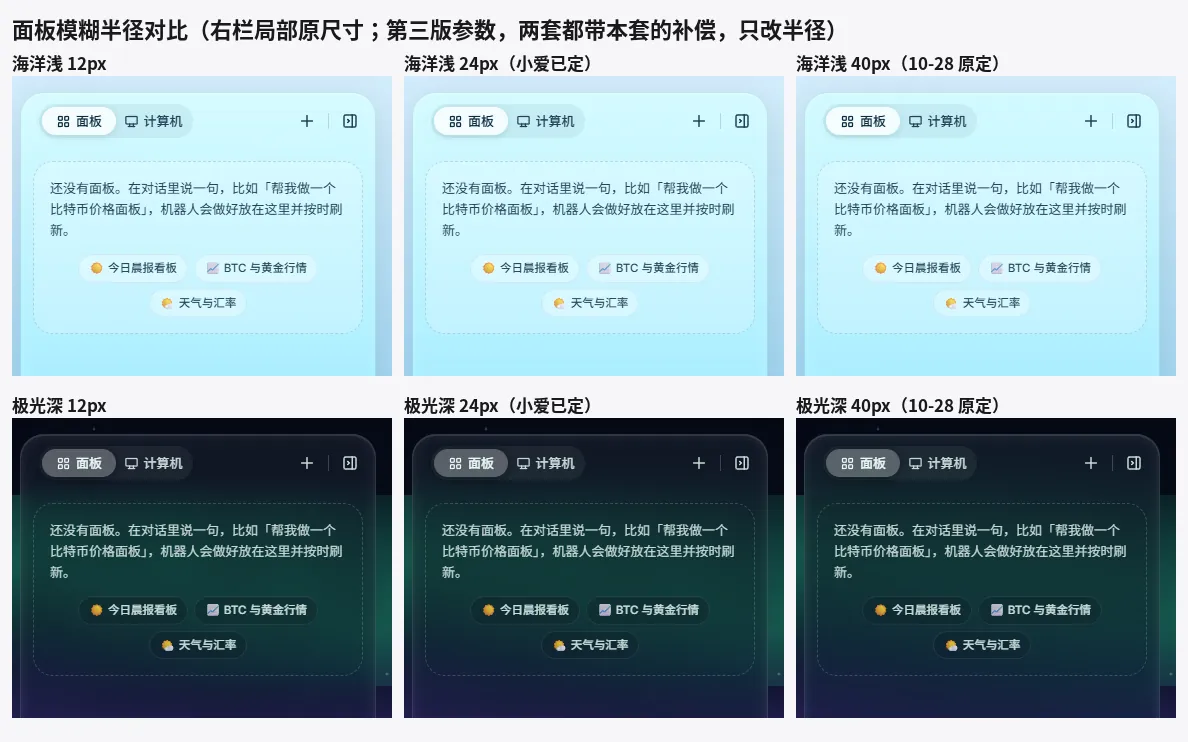
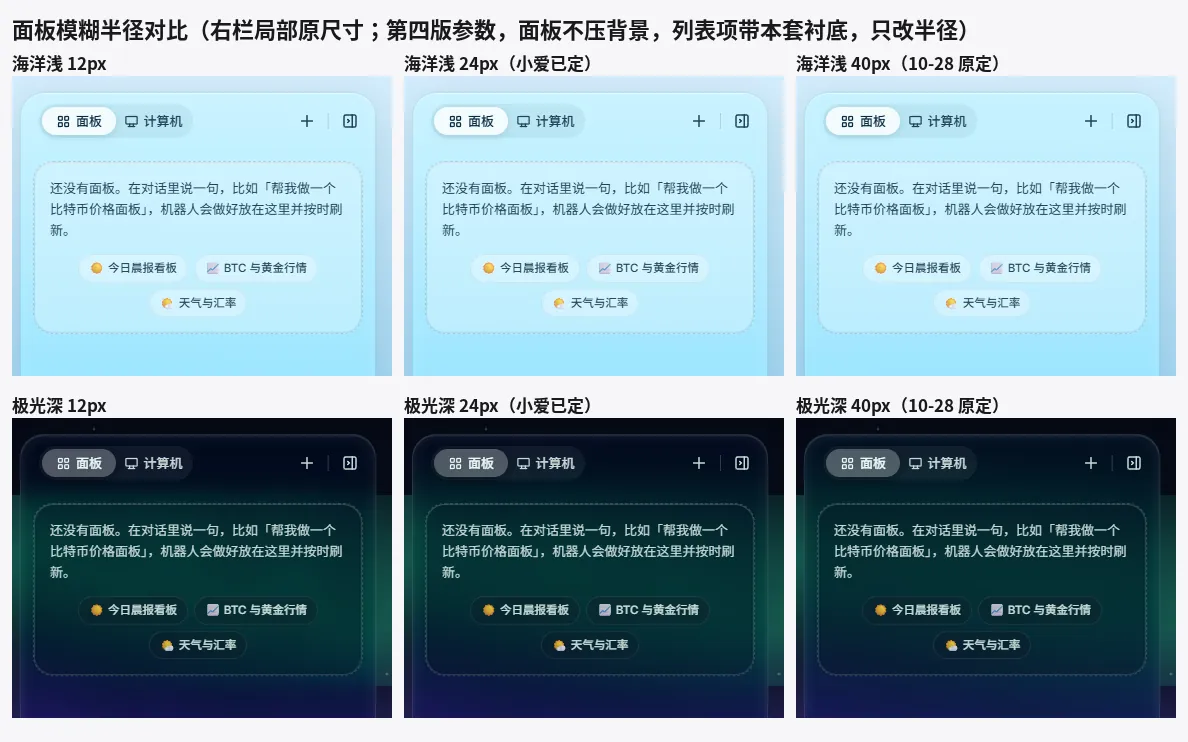
docs: theme proposal v4 - underlay-first AA compensation, panels stay at baseline, reshot images

Changed region(s): [[0.436, 0.0, 0.8098, 0.062], [0.3426, 0.031, 0.3737, 0.062]]

diff --git a/docs/design-system.md b/docs/design-system.md
@@ -1,12 +1,16 @@
 # 主题系统重做：提案
 
-**状态：小爱已批准，透光按方案 ③ 修订**（2026-10-29 第三版）。这份文档只写方案，代码一行没改。代码等 #376 合并后再做。
+**状态：小爱已批准**（2026-10-29 第四版）。这份文档只写方案，代码一行没改。代码等 #376 合并后再做。
 
-**第三版改了什么**（小爱选了方案 ③）：
-- 透光放第一位：基线就是「只降底色」那一列，面板底浅 **0.25**、深 **0.32**，**不压背景**。全局的压背景去掉了。
-- 只有过不了 AA 的预设单独补偿，每套取能过的最轻一档（§3.1）：sky 浅、sakura 深用轻压背景；aurora 深再把底色提到 0.36；sky 深、mist 浅、ocean 浅、dusk 浅、dusk 深在轻压背景之外，还要给文字所在的列表项加一层很淡的衬底。其余 4 套不补偿。
-- 12 张壁纸的主文字和次文字都 ≥ 4.5:1：主文字最差 6.32:1（aurora 深），次文字最差 4.52:1（sky 浅）。
-- 侧栏透光对比图换成「只降底色」和第三版并排（§11），2、3、4 号图按第三版参数重拍。
+**第四版改了什么**（小爱复审第三版后）：
+- 补偿的顺序反过来：**先用局部衬底**，压背景和提高底色放到最后才用。原因是第三版的 5 号图里，aurora 深的绿色极光几乎被压没了，sky 深也明显变灰。
+- 所有 12 套的面板都和基线一样：底浅 **0.25** / 深 **0.32**，`blur(24px) saturate(180%)`，**不压背景、不提底色**。第三版里 sky 浅、sky 深、sakura 深、aurora 深和另外 4 套用的 ② 轻压背景、aurora 深的底色 0.36 都去掉了。
+- 过不了 AA 的 8 套只给文字所在的列表项 / 卡片加衬底：主题实色的半透明底 + 1px 描边 + 顶部细高光边，和现在的列表卡一个做法，不是灰方块。衬底透明度上限 **0.48**，8 套用到 0.18–0.45（§3.1）。
+- 衬底调够以后，**没有一套还需要压背景**（t2 一套都没留）。
+- 12 张壁纸主文字最差 **6.32:1**（sakura 深），次文字最差 **4.56:1**（mist 浅），都 ≥ 4.5:1。
+- 5 号图右列换成第四版，2–4 号图按第四版重拍（§11）。
+
+**第三版改了什么**（小爱选了方案 ③，已被第四版取代）：基线改成只降底色、不压背景；过不了 AA 的预设按「轻压背景 → 提底色 → 衬底」的顺序补。结果 AA 全过，但压背景把深色壁纸的颜色压淡了。
 
 **第二版改了什么**（第一版审阅后）：
 - 小爱已经定了的三件事：
@@ -72,7 +76,7 @@ Jun 说的三个问题，在 main（`3856d360`）上都找到了原因：
   - 次文字 = 主文字和面板实色混合：浅色混 12% 面板实色，深色混 15%，结果是**不透明**的颜色，写法 `color-mix(in srgb, var(--text) 88%, var(--glass-bg-solid))`（深色是 85%）。
   - 第一版照抄 Hark，次文字是主文字的 50% 透明。面板变透以后，背后的壁纸会透过文字，最差的地方只有 2.0–3.7:1，达不到 AA（§3.1），所以改了。
   - 弱文字仍然是主文字 × 30%（Hark `--text-tertiary`），只用于占位符、禁用态和装饰，不用于需要读的正文。
-- **面板底**：透明度浅色 **0.25**、深色 **0.32**（aurora 深补偿到 0.36）。第一版取的是 Hark `--bg-40` 的 0.40，看起来偏奶白。过不了 AA 的预设怎么补偿见 §3.1。
+- **面板底**：透明度浅色 **0.25**、深色 **0.32**。第一版取的是 Hark `--bg-40` 的 0.40，看起来偏奶白。过不了 AA 的预设怎么补偿见 §3.1。
 - **弹窗底**：透明度浅色 0.668、深色 0.618，来自 Hark `--regular-bg`。
 - **色相**：上面这些只定了透明度；色相是各个主题自己的，Hark 没有，是这次新加的。
 
@@ -145,7 +149,7 @@ Jun 说的三个问题，在 main（`3856d360`）上都找到了原因：
 | 令牌 | 浅色 | 深色 |
 |---|---|---|
 | 壁纸 `--wallpaper` | 淡极光：浅底 + 粉绿紫光带；`#f4f7ff → #e6ecfb → #dfe6f7` | 极光：深夜底 + 青绿 / 紫光带 + 星星；`#030814 → #06122a → #071a2e` |
-| 面板（玻璃底）`--glass-bg` | `rgba(248,250,255,0.25)` | `rgba(6,12,24,0.36)`（补偿，§3.1） |
+| 面板（玻璃底）`--glass-bg` | `rgba(248,250,255,0.25)` | `rgba(6,12,24,0.32)` |
 | 面板实色（性能模式）`--glass-bg-solid` | `#f0f3fb` | `#0a1220` |
 | 弹窗底 `--glass-pop-bg` | `rgba(248,250,255,0.668)` | `rgba(8,14,28,0.618)` |
 | 用户气泡 `--bubble-user-bg` | `#dff5ef` | `#173f4a` |
@@ -178,11 +182,11 @@ Jun 说的三个问题，在 main（`3856d360`）上都找到了原因：
 
 | 参数 | 大面板（侧栏 / 输入框 / 顶栏） | 弹窗（对话框 / 菜单 / 弹层） | 出处 |
 |---|---|---|---|
-| 底色 | 主题的 `--glass-bg`，透明度浅 **0.25** / 深 **0.32**（aurora 深补偿到 0.36，见 §3.1） | 主题的 `--glass-pop-bg`，浅 0.668 / 深 0.618 | 大面板：第一版用 Hark `--bg-40` 的 0.40，第二版按 Jun「拉到最低也基本不透光」降到浅 0.22–0.28、深 0.30–0.35 区间的中间值。弹窗：Hark `--regular-bg`（浅 `rgba(255,255,255,.668)`，深 `rgba(29,29,31,.618)`），不变 |
+| 底色 | 主题的 `--glass-bg`，透明度浅 **0.25** / 深 **0.32**，所有预设一样，不再按预设加厚（§3.1） | 主题的 `--glass-pop-bg`，浅 0.668 / 深 0.618 | 大面板：第一版用 Hark `--bg-40` 的 0.40，第二版按 Jun「拉到最低也基本不透光」降到浅 0.22–0.28、深 0.30–0.35 区间的中间值。弹窗：Hark `--regular-bg`（浅 `rgba(255,255,255,.668)`，深 `rgba(29,29,31,.618)`），不变 |
 | 模糊 | `blur(24px)`（小爱已定） | `blur(12px)` | Hark 模糊刻度 4 / 8 / 16 / 20 / 24 / 50（`rTJw52XU.css`）；Hark 弹层 `._157n8na0` 用 `blur(12px)` |
 | 饱和度 | `saturate(180%)` | `saturate(180%)` | **不是 Hark 的**：Hark 不加 saturate。这个值来自 10-28 的批准（「blur40 + saturate180」）和 macOS（apple.com 导航栏 `saturate(180%) blur(20px)`） |
-| 压背景 `--glass-tone`（按预设） | **默认不加**。只有过不了 AA 的预设加轻的一档：浅 `contrast(0.8) brightness(1.15)`，深 `contrast(0.8) brightness(0.85)`。用在哪几套见 §3.1 | 不加 | **不是 Hark 的**，是为了 AA 加的。和模糊、饱和度写在同一个 `backdrop-filter` 里，不多一层 |
-| 列表项衬底 `--glass-row-bg`（按预设） | 默认透明。5 套预设给文字所在的列表项（侧栏的机器人行、会话行，右栏的空状态卡）加一层很淡的底：浅色是白色，深色是这套主题的面板色，透明度 0.13–0.25，见 §3.1 | 不加 | 新加的。只铺在行下面，面板本身不加厚，行与行之间照样透 |
+| 列表项衬底 `--glass-row-bg`（按预设） | 默认透明。8 套预设给文字所在的列表项（侧栏的机器人行、会话行、菜单按钮，右栏的空状态卡）加衬底：这套主题的面板实色 `--glass-bg-solid` 的半透明（0.18–0.45，**上限 0.48**），加 1px `--stroke-primary` 描边和顶部 1px 高光边（同下面的高光边），圆角 10px。每套的值见 §3.1 | 不加 | 新加的。只铺在行 / 卡下面，面板本身不加厚，行与行之间照样透。和列表卡同一种做法（实色半透明 + 细边），不是灰方块 |
+| 压背景 | **所有预设都不加**。只留给自定义壁纸兜底：衬底加到 0.48 还过不了时，才用最轻的 `contrast(0.85)` + 浅 `brightness(1.1)` / 深 `brightness(0.9)` | 不加 | **不是 Hark 的**。第二版全局加、第三版按预设加，都会把壁纸颜色压淡，第四版去掉 |
 | 高光边 | 浅 `inset 0 1px 0 rgba(255,255,255,.5)`；深 `inset 0 1px 0 rgba(255,255,255,.1)` | 同左 | 浅色取 Hark `--bg-50` 的白 50%；深色取 Hark `--stroke-primary-on` `rgba(255,255,255,.1)`。Hark 的 `--continuous-inset` 是 0.04，在深色壁纸上看不出来，所以没用 |
 | 内阴影 | `inset 0 0 10px 2px rgba(255,255,255,.07)` | 同左 | Hark `--handoff-inner-glow` |
 | 描边 | 1px 主题 `--stroke-primary`（浅 0.10 / 深 0.14） | 同左 | Hark `._11ah0wx6` 1px `--stroke-primary`（`rgba(29,29,31,.14)` / `rgba(245,245,247,.14)`）；浅色降到 0.10，否则在彩色壁纸上发脏 |
@@ -195,14 +199,28 @@ Jun 说的三个问题，在 main（`3856d360`）上都找到了原因：
 
 ```css
 background: rgba(255 255 255 / 0.25);            /* 主题的 --glass-bg */
-backdrop-filter: blur(24px) saturate(180%) var(--glass-tone, );  /* --glass-tone 默认为空，只有补偿的预设才有值 */
+backdrop-filter: blur(24px) saturate(180%);       /* 所有预设一样，不压背景 */
 border: 1px solid var(--stroke-primary);
 box-shadow: inset 0 1px 0 rgba(255 255 255 / 0.5),      /* 高光边 */
             inset 0 0 10px 2px rgba(255 255 255 / 0.07), /* 内阴影 */
             0 8px 40px rgba(29 29 31 / 0.12);
 ```
 
-深色的高光边换成白 0.1，底色换成主题的深色 `--glass-bg`。需要补偿的预设在自己的 `html[data-preset=x]` / `html.dark[data-preset=x]` 里写 `--glass-tone` 和 `--glass-row-bg`。
+深色的高光边换成白 0.1，底色换成主题的深色 `--glass-bg`。
+
+列表项衬底（只在需要补偿的预设里有值，写在自己的 `html[data-preset=x]` / `html.dark[data-preset=x]` 里）：
+
+```css
+/* 例：sky 深 */
+--glass-row-bg: rgb(15 24 44 / 0.45);            /* 面板实色 #0f182c 的半透明 */
+/* 侧栏机器人行、会话行、菜单按钮、右栏空状态卡 */
+background: var(--glass-row-bg, transparent);
+border-radius: 10px;
+box-shadow: inset 0 0 0 1px var(--stroke-primary), /* 细描边，用 inset 不改布局 */
+            inset 0 1px 0 var(--glass-highlight);  /* 顶部高光边 */
+```
+
+没有补偿的预设不写 `--glass-row-bg`，行就是透明的，也不画描边。
 
 ### 3.1 文字对比度实测（WCAG AA）
 
@@ -212,65 +230,68 @@ box-shadow: inset 0 1px 0 rgba(255 255 255 / 0.5),      /* 高光边 */
 - 每张壁纸取对比度**最差**的那个 8×8 小块，算主文字和次文字的对比度。AA 的要求是正文 ≥ 4.5:1。
 - 第一版、第二版的原始数据在 `/workspace/theme/aa/final.json`。
 
-- 列表项衬底的测法：在每块玻璃里面再铺一块和衬底一样的底（四周留 12px，圆角 10px），取样范围不变。
-- 脚本在 `/workspace/theme/aa/`（`aa.mjs` / `aa3.mjs` 截图，`aa.py` / `tiers.py` 计算），第三版的原始数据在 `g5/tiers.json`，每一档的截图在 `g5/` 下。
+- 列表项衬底的测法：在每块玻璃里面再铺一块和衬底一样的底（主题实色半透明 + 1px 描边 + 高光边，四周留 12px，圆角 10px），取样范围不变。
+- 脚本在 `/workspace/theme/aa/`：截图 `aa4.mjs`（第四版）/ `aa3.mjs`（第三版），计算 `aa.py`、`tiers.py`，需要的衬底 `under3.py`。第四版的参数在 `v4.cfg.json`，截图和结果在 `g6/`；第三版各档在 `g5/`。
 
-**补偿怎么选**（小爱定的顺序，每套单独选，选能过的最轻一档）：
-1. 轻压背景 ①：`contrast(0.85)`，浅 `brightness(1.1)` / 深 `brightness(0.9)`；
-2. 轻压背景 ②：`contrast(0.8)`，浅 `brightness(1.15)` / 深 `brightness(0.85)`；
-3. 提高这一套的 `--glass-bg`，浅色最多 0.30，深色最多 0.36（也试了和 ② 叠加）；
-4. 还不够，才给文字所在的列表项加局部衬底（叠在 ② 上）。
+**补偿怎么选**（小爱复审后定的顺序，每套单独选）：
+1. **先加局部衬底**：给文字所在的列表项 / 卡片加主题实色的半透明底（带细描边和高光边）。透明度从 0 往上加，取刚好够的值再加 0.02 余量，**上限 0.48**。
+2. 衬底到上限还过不了，才用很轻的压背景：先 `contrast(0.85)`（浅 `brightness(1.1)` / 深 `brightness(0.9)`），再 `contrast(0.8)`（浅 1.15 / 深 0.85），并在文档里写明是哪一套、为什么。
+3. 最后才提高这一套的 `--glass-bg`（浅 ≤ 0.30，深 ≤ 0.36）。
 
-**各档实测**（最差区域，「主 / 次」）：
+第四版实测 8 套都在第 1 步过了，第 2、3 步一套都没用。
 
-| 壁纸 | 基线：0.25 / 0.32，不压背景 | ① | ② | 底色提到 0.30 / 0.36 | ② + 底色 0.30 / 0.36 | ② 上还差的衬底 |
+**各档实测**（第三版时测的，留作对照；最差区域，「主 / 次」。最后一列是第四版的算法：只在基线上加主题实色衬底，刚好够 AA 的透明度）：
+
+| 壁纸 | 基线：0.25 / 0.32，不压背景 | ① | ② | 底色提到 0.30 / 0.36 | ② + 底色 0.30 / 0.36 | 基线上需要的衬底 |
 |---|---|---|---|---|---|---|
-| sky 浅 | 5.48 / 3.87 | 6.09 / 4.3 | 6.41 / 4.52 | 5.86 / 4.14 | 6.79 / 4.79 | – |
-| sky 深 | 3.01 / 2.21 | 3.91 / 2.88 | 4.44 / 3.26 | 3.27 / 2.4 | 4.78 / 3.51 | 0.23 |
-| mist 浅 | 4.63 / 3.26 | 5.28 / 3.72 | 5.63 / 3.96 | 5.07 / 3.57 | 6.06 / 4.27 | 0.11 |
+| sky 浅 | 5.48 / 3.87 | 6.09 / 4.3 | 6.41 / 4.52 | 5.86 / 4.14 | 6.79 / 4.79 | 0.16 |
+| sky 深 | 3.01 / 2.21 | 3.91 / 2.88 | 4.44 / 3.26 | 3.27 / 2.4 | 4.78 / 3.51 | 0.43 |
+| mist 浅 | 4.63 / 3.26 | 5.28 / 3.72 | 5.63 / 3.96 | 5.07 / 3.57 | 6.06 / 4.27 | 0.26 |
 | mist 深 | 9.13 / 6.81 | 9.31 / 6.95 | 9.57 / 7.15 | 9.52 / 7.11 | 9.87 / 7.37 | – |
-| ocean 浅 | 4.32 / 3.06 | 4.94 / 3.5 | 5.19 / 3.69 | 4.71 / 3.34 | 5.58 / 3.96 | 0.18 |
+| ocean 浅 | 4.32 / 3.06 | 4.94 / 3.5 | 5.19 / 3.69 | 4.71 / 3.34 | 5.58 / 3.96 | 0.32 |
 | ocean 深 | 8.9 / 6.53 | 9.3 / 6.82 | 9.58 / 7.03 | 9.2 / 6.75 | 9.91 / 7.27 | – |
-| dusk 浅 | 4.45 / 3.16 | 5.08 / 3.6 | 5.38 / 3.81 | 4.88 / 3.46 | 5.82 / 4.13 | 0.15 |
-| dusk 深 | 3.07 / 2.25 | 4.05 / 2.97 | 4.56 / 3.34 | 3.38 / 2.48 | 4.98 / 3.65 | 0.22 |
+| dusk 浅 | 4.45 / 3.16 | 5.08 / 3.6 | 5.38 / 3.81 | 4.88 / 3.46 | 5.82 / 4.13 | 0.30 |
+| dusk 深 | 3.07 / 2.25 | 4.05 / 2.97 | 4.56 / 3.34 | 3.38 / 2.48 | 4.98 / 3.65 | 0.42 |
 | aurora 浅 | 9.93 / 7.04 | 10.63 / 7.54 | 11.02 / 7.81 | 10.21 / 7.23 | 11.25 / 7.97 | – |
-| aurora 深 | 4.03 / 2.93 | 5.18 / 3.77 | 5.75 / 4.18 | 4.46 / 3.24 | 6.32 / 4.59 | – |
+| aurora 深 | 4.03 / 2.93 | 5.18 / 3.77 | 5.75 / 4.18 | 4.46 / 3.24 | 6.32 / 4.59 | 0.28 |
 | sakura 浅 | 9.02 / 6.41 | 9.59 / 6.81 | 9.89 / 7.03 | 9.32 / 6.62 | 10.2 / 7.25 | – |
-| sakura 深 | 4.96 / 3.64 | 6.02 / 4.41 | 6.54 / 4.8 | 5.37 / 3.94 | 6.96 / 5.11 | – |
+| sakura 深 | 4.96 / 3.64 | 6.02 / 4.41 | 6.54 / 4.8 | 5.37 / 3.94 | 6.96 / 5.11 | 0.18 |
 
 - 基线（不压背景）只有 4 套能过：mist 深、ocean 深、aurora 浅、sakura 浅。
-- 卡住的基本是**次文字**：它是主文字混 12% / 15% 面板实色，比主文字低一截。① 一套都救不回来；② 能救 sky 浅和 sakura 深；aurora 深要 ② 再加底色 0.36。
-- 只提底色帮助很小：提到上限 0.30 / 0.36，最差值只涨 0.1–0.4。
-- 剩下 5 套（sky 深、mist 浅、ocean 浅、dusk 浅、dusk 深）就算 ② 加上底色上限也过不了，所以用 ② + 列表项衬底。衬底的值是算出来刚好够的透明度再加 0.02 的余量。
+- 卡住的基本是**次文字**：它是主文字混 12% / 15% 面板实色，比主文字低一截。
+- 压背景（①、②）和提底色都是改整块面板，会把壁纸颜色压淡（第三版 5 号图里 aurora 深的极光、sky 深的夜空）。衬底只改文字下面那一小块，所以放到第一位。
+- 只靠衬底，8 套需要的透明度是 0.16–0.43（最后一列），都在上限 0.48 以内，所以第四版不用压背景，也不提底色。
 
-**结果：第三版每套的补偿和最差对比度**：
+**结果：第四版每套的补偿和最差对比度**（面板全部是基线：底 0.25 / 0.32，不压背景）：
 
-| 壁纸 | 第一版：底 0.40，次文字 50% | 第二版：全局压背景（已放弃） | 基线：只降底色 | 第三版补偿 | **第三版** | 最差区域的背景色 |
-|---|---|---|---|---|---|---|
-| sky 浅 | 6.81 / 2.46 | 7.74 / 5.47 | 5.48 / 3.87 | ② 轻压背景 | **6.41 / 4.52** | `#5aa9ff` |
-| sky 深 | 3.63 / 2.05 | 6.38 / 4.69 | 3.01 / 2.21 | ② + 列表项衬底 0.25 | **6.37 / 4.69** | `#525764` |
-| mist 浅 | 6.08 / 2.35 | 7.08 / 4.99 | 4.63 / 3.26 | ② + 列表项衬底 0.13 | **6.47 / 4.56** | `#93acae` |
-| mist 深 | 9.82 / 3.74 | 10.38 / 7.75 | 9.13 / 6.81 | 不补偿 | **9.13 / 6.81** | `#2d4144` |
-| ocean 浅 | 5.58 / 2.26 | 6.61 / 4.69 | 4.32 / 3.06 | ② + 列表项衬底 0.20 | **6.52 / 4.63** | `#74b2e4` |
-| ocean 深 | 9.61 / 3.68 | 10.74 / 7.88 | 8.9 / 6.53 | 不补偿 | **8.9 / 6.53** | `#204563` |
-| dusk 浅 | 5.79 / 2.3 | 6.75 / 4.79 | 4.45 / 3.16 | ② + 列表项衬底 0.17 | **6.49 / 4.6** | `#d995ba` |
-| dusk 深 | 3.71 / 2.06 | 6.57 / 4.81 | 3.07 / 2.25 | ② + 列表项衬底 0.24 | **6.46 / 4.74** | `#71513c` |
-| aurora 浅 | 10.97 / 2.91 | 12.87 / 9.13 | 9.93 / 7.04 | 不补偿 | **9.93 / 7.04** | `#d0c0ff` |
-| aurora 深 | 4.83 / 2.34 | 7.93 / 5.76 | 4.03 / 2.93 | ② + 底色 0.36 | **6.32 / 4.59** | `#106756` |
-| sakura 浅 | 9.98 / 2.78 | 11.27 / 8.01 | 9.02 / 6.41 | 不补偿 | **9.02 / 6.41** | `#ffaed7` |
-| sakura 深 | 5.82 / 2.64 | 8.43 / 6.19 | 4.96 / 3.64 | ② 轻压背景 | **6.54 / 4.8** | `#854058` |
+| 壁纸 | 第一版：底 0.40，次文字 50% | 第二版：全局压背景（已放弃） | 基线：只降底色 | 第三版（已放弃） | 第四版补偿 | **第四版** | 最差区域的背景色 |
+|---|---|---|---|---|---|---|---|
+| sky 浅 | 6.81 / 2.46 | 7.74 / 5.47 | 5.48 / 3.87 | 6.41 / 4.52（② 轻压背景） | 衬底 0.18 | **6.52 / 4.61** | `#62aaff` |
+| sky 深 | 3.63 / 2.05 | 6.38 / 4.69 | 3.01 / 2.21 | 6.37 / 4.69（② + 列表项衬底 0.25） | 衬底 0.45 | **6.39 / 4.7** | `#4f5769` |
+| mist 浅 | 6.08 / 2.35 | 7.08 / 4.99 | 4.63 / 3.26 | 6.47 / 4.56（② + 列表项衬底 0.13） | 衬底 0.28 | **6.47 / 4.56** | `#93acad` |
+| mist 深 | 9.82 / 3.74 | 10.38 / 7.75 | 9.13 / 6.81 | 9.13 / 6.81（不补偿） | 不补偿 | **9.13 / 6.81** | `#2d4144` |
+| ocean 浅 | 5.58 / 2.26 | 6.61 / 4.69 | 4.32 / 3.06 | 6.52 / 4.63（② + 列表项衬底 0.20） | 衬底 0.34 | **6.57 / 4.66** | `#76b3e0` |
+| ocean 深 | 9.61 / 3.68 | 10.74 / 7.88 | 8.9 / 6.53 | 8.9 / 6.53（不补偿） | 不补偿 | **8.9 / 6.53** | `#204563` |
+| dusk 浅 | 5.79 / 2.3 | 6.75 / 4.79 | 4.45 / 3.16 | 6.49 / 4.6（② + 列表项衬底 0.17） | 衬底 0.32 | **6.58 / 4.67** | `#d898b6` |
+| dusk 深 | 3.71 / 2.06 | 6.57 / 4.81 | 3.07 / 2.25 | 6.46 / 4.74（② + 列表项衬底 0.24） | 衬底 0.44 | **6.48 / 4.75** | `#735038` |
+| aurora 浅 | 10.97 / 2.91 | 12.87 / 9.13 | 9.93 / 7.04 | 9.93 / 7.04（不补偿） | 不补偿 | **9.93 / 7.04** | `#d0c0ff` |
+| aurora 深 | 4.83 / 2.34 | 7.93 / 5.76 | 4.03 / 2.93 | 6.32 / 4.59（② + 底色 0.36） | 衬底 0.30 | **6.53 / 4.75** | `#046554` |
+| sakura 浅 | 9.98 / 2.78 | 11.27 / 8.01 | 9.02 / 6.41 | 9.02 / 6.41（不补偿） | 不补偿 | **9.02 / 6.41** | `#ffaed7` |
+| sakura 深 | 5.82 / 2.64 | 8.43 / 6.19 | 4.96 / 3.64 | 6.54 / 4.8（② 轻压背景） | 衬底 0.20 | **6.32 / 4.64** | `#903c58` |
 
-第三版 12 张壁纸全部达到 AA：**主文字最差 6.32:1（aurora 深），次文字最差 4.52:1（sky 浅）**。
+第四版 12 张壁纸全部达到 AA：**主文字最差 6.32:1（sakura 深），次文字最差 4.56:1（mist 浅）**。
 
 **结论**：
-- 7 套不加衬底：4 套什么都不补，2 套只用 ②，aurora 深用 ② + 底色 0.36。
-- 5 套加了列表项衬底。衬底只铺在行下面，面板其余地方和基线一样透。**规矩**：这 5 套里，玻璃面板上需要读的文字都要放在带衬底的行或卡里，分组标题这类直接放在面板上的字也一样。不放进去的话，只有 ② 的数字（上表第 4 列），过不了 AA。
+- 4 套不补偿：mist 深、ocean 深、aurora 浅、sakura 浅。
+- 8 套只加列表项衬底：sky 浅 0.18、sakura 深 0.20、mist 浅 0.28、aurora 深 0.30、dusk 浅 0.32、ocean 浅 0.34、dusk 深 0.44、sky 深 0.45（主题实色的半透明，上限 0.48）。
+- **没有一套用压背景，也没有一套提高底色**，所以 12 套的面板都和基线一样透。
+- **规矩**：这 8 套里，玻璃面板上需要读的文字都要放在带衬底的行或卡里，分组标题这类直接放在面板上的字也一样。不放进去的话，就只有基线的数字（上表第 4 列），过不了 AA。
 - 次文字原来的「主文字 50% 透明」在透明面板上不可能达标，所以改成了不透明的颜色（§2 颜色表）。
-- **自定义壁纸**：用户上传以后，按 §3.1 的方法在侧栏、输入框的位置取样一次，按上面同样的顺序自动补偿（①、②、提底色、衬底），底色最多提到 0.40。这一条放进 §10 的第一个 PR。
+- **自定义壁纸**：用户上传以后，按 §3.1 的方法在侧栏、输入框的位置取样一次，按上面同样的顺序自动补偿：先加衬底（上限 0.48），还不够再用最轻的压背景，最后才提底色（最多 0.40）。这一条放进 §10 的第一个 PR。
 
 ### 模糊半径：24px（小爱已定）
 
-10-28 批准的是 `blur(40px)`。这次的要求是「透得过去，能清楚看出壁纸的颜色和形状」。原型按第三版参数（ocean 浅：② + 衬底 0.20；aurora 深：② + 底色 0.36），只改模糊半径，分别用 12、24、40px 截了右栏局部（海洋浅色、极光深色，`images/theme-proposal/4-blur-radius.webp`）：
+10-28 批准的是 `blur(40px)`。这次的要求是「透得过去，能清楚看出壁纸的颜色和形状」。原型按第四版参数（面板都是基线；ocean 浅衬底 0.34，aurora 深衬底 0.30），只改模糊半径，分别用 12、24、40px 截了右栏局部（海洋浅色、极光深色，`images/theme-proposal/4-blur-radius.webp`）：
 - **40px**：浪线和极光带都糊成了一片颜色，看不出形状。
 - **12px**：形状最清楚，但文字后面的壁纸细节会干扰阅读。
 - **24px**：介于两者之间，而且在 Hark 自己的模糊刻度上。
@@ -460,7 +481,7 @@ box-shadow: inset 0 1px 0 rgba(255 255 255 / 0.5),      /* 高光边 */
 
 沿用 Hark 的名字，不另起一套。main 的 `styles.css` 开头已经写了预设怎么覆盖令牌。这次的扩充如下：
 
-- 预设覆盖的令牌从 5 个扩到 10 个：`--wallpaper`、`--glass-bg`、`--glass-bg-solid`、`--glass-pop-bg`、`--bubble-user-bg`、`--bubble-agent-bg`、`--text`、`--accent-color`、`--accent-soft`、`--stroke-primary`。另有两个**只在需要补偿的预设里写**的令牌：`--glass-tone`（轻压背景）和 `--glass-row-bg`（列表项衬底），默认为空 / 透明（§3.1）。
+- 预设覆盖的令牌从 5 个扩到 10 个：`--wallpaper`、`--glass-bg`、`--glass-bg-solid`、`--glass-pop-bg`、`--bubble-user-bg`、`--bubble-agent-bg`、`--text`、`--accent-color`、`--accent-soft`、`--stroke-primary`。另有一个**只在需要补偿的预设里写**的令牌：`--glass-row-bg`（列表项衬底，主题实色的半透明），默认透明（§3.1）。
 - 写法是 `html[data-preset=x]`（浅）和 `html.dark[data-preset=x]`（深）。
 - **跟着算的令牌不进预设**：`--text-secondary`（`--text` 混 `--glass-bg-solid`，浅 12% / 深 15%）、`--text-tertiary`（`--text` 30%）、`--fill-*` 都用 `color-mix` 算出来（DESIGN.md §10.5 第 2 条），预设里不写。`--ink-2` 和 `--muted-foreground` 改成指向 `--text-secondary`，不再各自写 72% / 50%。
 - **玻璃参数是全局的，不跟主题变**：`--glass-blur: 24px`、`--glass-pop-blur: 12px`、`--glass-saturate: 180%`、`--glass-highlight`（高光边，深浅两值）、`--glass-inner`（新增：内阴影）、`--glass-shadow`、`--glass-radius: 24px`。
@@ -497,7 +518,7 @@ box-shadow: inset 0 1px 0 rgba(255 255 255 / 0.5),      /* 高光边 */
 
 | 顺序 | PR | 内容 | 依赖 |
 |---|---|---|---|
-| 1 | 主题数据和切换，同时删掉旧的 | 加主题数据：`html[data-preset=x]` 和 `html.dark[data-preset=x]` 的 10 个令牌、6 套静态壁纸、`--glass-*` 新数值（§3）和每套的补偿（§3.1 的 `--glass-tone` / `--glass-row-bg`）、次文字新算法（§2）、旧名字改成别名。设置页换成一排主题缩略图加壁纸入口（§7）。同时删掉旧的 6 个配色（`data-palette`）、3 种玻璃材质（`data-glass`）、雾度滑条（`--lg-alpha` / `chisabot-glass-opacity`），以及末尾三档玻璃层（就是 RFC 表里的第 8 项）。再加上自定义壁纸的 AA 取样和自动补偿（§3.1，底色上限 0.40）。扩展 `hark-token-dark.test.ts` 检查预设，新增对比度测试 | #376 合并。要改 `appearance-preferences.tsx`（禁区），需要文件负责人同意 |
+| 1 | 主题数据和切换，同时删掉旧的 | 加主题数据：`html[data-preset=x]` 和 `html.dark[data-preset=x]` 的 10 个令牌、6 套静态壁纸、`--glass-*` 新数值（§3）和每套的列表项衬底（§3.1 的 `--glass-row-bg`）、次文字新算法（§2）、旧名字改成别名。设置页换成一排主题缩略图加壁纸入口（§7）。同时删掉旧的 6 个配色（`data-palette`）、3 种玻璃材质（`data-glass`）、雾度滑条（`--lg-alpha` / `chisabot-glass-opacity`），以及末尾三档玻璃层（就是 RFC 表里的第 8 项）。再加上自定义壁纸的 AA 取样和自动补偿（§3.1，衬底上限 0.48，底色上限 0.40）。扩展 `hark-token-dark.test.ts` 检查预设，新增对比度测试 | #376 合并。要改 `appearance-preferences.tsx`（禁区），需要文件负责人同意 |
 | 2 | 削减 backdrop-filter | 按 §4 的表删掉和改类，大面板统一用 `.glass` / `.glass.is-pop`，遮罩去掉模糊；更新 `render-budget.test.ts` | 1；#375 合并后要和 `perf-noblur.css` 对一遍 |
 | 3 | 存储收口 | 合并成一个键，迁移旧的 8 个键（§9） | 1 |
 | 4 | 去掉账号卡 | 见 [RFC「下一步」](rfc/hark-redesign.md#下一步) | #374 合并；和 1–3 互不依赖 |
@@ -506,14 +527,15 @@ box-shadow: inset 0 1px 0 rgba(255 255 255 / 0.5),      /* 高光边 */
 
 **怎么做的**：
 - 用同一个页面：桌面聊天页，有左栏、气泡、输入框，开着「个人资料」弹窗，1440×900。
-- 原型是在截图时往页面里注入 CSS，再在 localStorage 里设一张自定义壁纸，**没有提交进仓库**。第三版的原型 CSS 和主题数据在 Ayase 的 `C:\Users\48818\hark-redesign-shots\theme\proto3\v3\`（`proto.css`、`themes.json`；第二版在 `proto2\v2\`），截图脚本是同目录上两级的 `harness\theme-shot.mjs`。
+- 原型是在截图时往页面里注入 CSS，再在 localStorage 里设一张自定义壁纸，**没有提交进仓库**。第四版的原型 CSS 和主题数据在 Ayase 的 `C:\Users\48818\hark-redesign-shots\theme\proto4\v4\`（`proto.css`、`themes.json`；第三版在 `proto3\v3\`，第二版在 `proto2\v2\`），截图脚本是同目录上两级的 `harness\theme-shot.mjs`。
 
 **放在哪**：
-- 拼好的图在 `docs/images/theme-proposal/`，就是下面这 5 张，整个目录约 380 KB（382,404 字节）。2、3、4、5 都换成了第三版的图，1 没变。旧图已经替换掉，要看可以查 git 历史。
+- 拼好的图在 `docs/images/theme-proposal/`，就是下面这 5 张，整个目录约 390 KB（391,522 字节）。2、3、4、5 都换成了第四版的图，1 没变。旧图已经替换掉，要看可以查 git 历史。
 - 原图（PNG）不进仓库：
-  - 第三版整页、模糊半径、基线：box `/workspace/theme/r4/raw/{v3,blur,base}/`，Ayase `hark-redesign-shots\theme\shots4\`；
+  - 第四版整页、模糊半径：box `/workspace/theme/r5/raw/{v4,blur}/`，Ayase `hark-redesign-shots\theme\shots5\`；
+  - 基线和第三版：box `/workspace/theme/r4/raw/{base,v3}/`，Ayase `hark-redesign-shots\theme\shots4\`；
   - 第二版、第一版：box `/workspace/theme/r3/raw/`，Ayase `hark-redesign-shots\theme\shots2\`、`shots3\`；
-  - 拼图脚本：box `/workspace/theme/r4/mk.py`。
+  - 拼图脚本：box `/workspace/theme/r5/mk.py`。
 
 ![现在：旧主题](images/theme-proposal/1-old.webp)
 
@@ -521,14 +543,14 @@ box-shadow: inset 0 1px 0 rgba(255 255 255 / 0.5),      /* 高光边 */
 
 ![提案：6 套主题的另一个模式](images/theme-proposal/3-new-alt.webp)
 
-**侧栏透光对比**：右栏局部原尺寸，左列是基线（只降底色，不压背景），右列是第三版。三行分别是 sky 深（② + 衬底 0.25，补偿最重的一套）、aurora 深（② + 底色 0.36）、sakura 浅（不补偿，两列应当一样）。
+**侧栏透光对比**：右栏局部原尺寸，左列是基线（只降底色，不压背景），右列是第四版。三行分别是 sky 深（衬底 0.45，衬底最厚的一套）、aurora 深（衬底 0.30）、sakura 浅（不补偿，两列应当一样）。
 
 ![侧栏透光对比](images/theme-proposal/5-sidebar-see-through.webp)
 
-**已选方案 ③**（小爱定）：基线不压背景，只给过不了 AA 的预设单独补偿。
-- 第三版和基线并排看，壁纸的颜色和形状一样透上来，面板没有整块发白：② 比第二版的压背景轻得多，衬底只在行下面。
-- 深色的两套（sky 深、aurora 深）壁纸颜色比基线略暗、略淡一点，这是第二档 contrast(0.8) 的代价；浅色不补偿的几套和基线完全一样。
-- 原来的另外两个选项不再考虑：接受第二版（全局压背景，偏白 / 偏灰），或者只降底色、不管 AA。
+**已选方案 ③，按第四版的顺序做**（小爱定）：面板都和基线一样，过不了 AA 的预设只在文字下面加衬底。
+- 第四版和基线并排看，面板部分完全一样：极光的绿色、夜空的蓝色都和基线一样透上来，没有变白、变灰或变淡。
+- 区别只在列表项和空状态卡下面多了一块主题色的半透明底和细高光边，和列表卡一个样子。
+- 第三版的轻压背景（aurora 深的极光被压淡、sky 深发灰）和第二版的全局压背景都不再用。
 
 ![模糊半径对比](images/theme-proposal/4-blur-radius.webp)
 

diff --git a/docs/DEVLOG.md b/docs/DEVLOG.md
@@ -415,6 +415,7 @@
 - 代码 PR 顺序改为：① 主题数据和切换，同时删掉旧色板、玻璃材质和雾度滑块；② 砍 backdrop-filter；③ 存储；④ 账号卡。都等 #376 合并后再开。
 - 返修（同日）：效果图按第二版参数重拍，2、3、4 替换，新增 5（三列：0.40 / 只降底色 / 第二版），图片目录约 380KB；透光对比发现压背景会把面板洗白 / 压灰，透光不如只降底色，已在 design-system.md §11 照实写明并请小爱取舍；另加了 tid 参考图的用途（06、04 输入框，08 底部面板，05 空状态和加载）。
 - 第三版（小爱选方案 ③）：基线改回只降底色（浅 0.25 / 深 0.32，不压背景），只给过不了 AA 的预设单独补偿：sky 浅、sakura 深用轻压背景 `contrast(0.8)` + 亮度 1.15 / 0.85；aurora 深再把底色提到 0.36；sky 深、mist 浅、ocean 浅、dusk 浅、dusk 深再给列表项加 0.13–0.25 的淡衬底。12 张壁纸主文字最差 6.32、次文字最差 4.52，都过 AA；侧栏对比图换成基线和第三版并排，2–5 号图按第三版重拍。
+- 第四版（小爱复审第三版后）：补偿顺序反过来，先加局部衬底，压背景和提底色放到最后。12 套面板都回到基线（0.25 / 0.32，不压背景），aurora 深的 0.36 和所有 t2 都去掉；8 套只给文字所在的列表项 / 卡片加主题实色半透明衬底 + 细描边和高光边（0.18–0.45，上限 0.48）。12 张壁纸主文字最差 6.32、次文字最差 4.56，没有一套还需要 t2；5 号图右列和 2–4 号图按第四版重拍。
 
 ## 2026-10-29 发版 0.1.107
 
